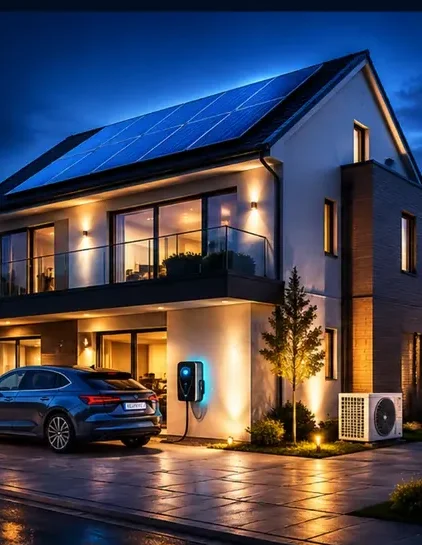
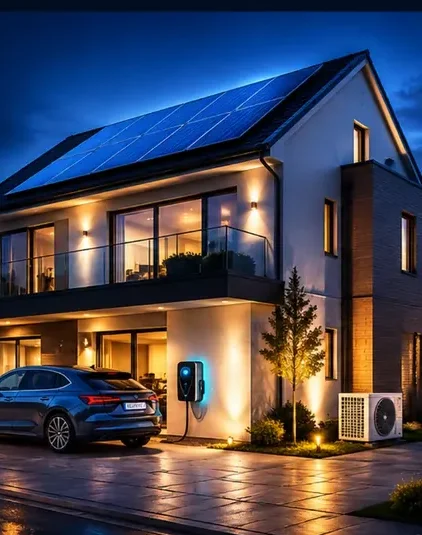
Hero-Bild als randabschließendes Bildelement statt Hintergrund
Text links, Hausfoto rechts (volle Spaltenhöhe, kein Schatten/Card-Look),
Icon-Reihe mit den 6 Leistungen darunter — angelehnt an die vom Kunden
gezeigte Referenz, aber mit echtem HTML-Text/Icons statt Text im Bild.

Claude-Session: https://claude.ai/code/session_017NiCRhzwhPUgWijeqj59Q5

diff --git a/assets/style-relaunch.min.css b/assets/style-relaunch.min.css
@@ -1,1 +1,1 @@
-:root{--yellow:#FFCF21;--yellow-soft:rgba(255,207,33,0.18);--orange:#0E7FC4;--orange-2:#00B0E6;--orange-soft:rgba(0,176,230,0.12)}.site-header{border-bottom-color:var(--yellow)}.btn-primary{background:var(--yellow);color:#1b2436;box-shadow:0 10px 24px -8px rgba(255,207,33,.45)}.btn-primary:hover{background:#f0be0a}.new-badge{display:inline-block;font-family:var(--font-mono);font-size:11px;letter-spacing:.04em;text-transform:uppercase;background:var(--orange-soft);color:var(--orange);border-radius:999px;padding:3px 10px;margin-left:10px;vertical-align:middle}.main-nav{gap:2px}.main-nav a{white-space:nowrap;padding:10px 9px;font-size:13.5px}@media (max-width:1250px){.main-nav a{padding:10px 6px;font-size:12.5px}}.header-cta .btn-sm{white-space:nowrap;flex-shrink:0}.hero{background:radial-gradient(ellipse at 85% -10%,rgba(0,176,230,.22),transparent 45%),linear-gradient(160deg,var(--navy),var(--navy-3))}.hero .eyebrow{color:var(--orange-2)}.hero .eyebrow::before,.section-feature .eyebrow::before{background:var(--orange-2)}.hero h1,.section-feature .audience-tile h3,.section-feature .section-head h2{color:#fff}.hero-lede{color:rgba(255,255,255,.78)}.hero .pill{background:rgba(255,255,255,.08);border-color:rgba(255,255,255,.16);color:#fff}.hero .btn-outline{border-color:rgba(255,255,255,.35);color:#fff}.hero-split-grid{padding-bottom:12px}.hero-visual{display:flex;align-items:flex-end;justify-content:center}.hero-visual img{width:100%;max-width:420px;height:auto;border-radius:var(--radius);display:block;box-shadow:0 30px 60px -30px rgba(0,0,0,.65)}@media (max-width:900px){.hero-visual img{max-width:320px;margin:0 auto}}.hero-services{display:grid;grid-template-columns:repeat(6,1fr);gap:16px;padding:24px 0 56px;border-top:1px solid rgba(255,255,255,.1)}.hero-service{display:flex;flex-direction:column;align-items:center;gap:10px;text-decoration:none;text-align:center}.hero-service span:last-child{font-size:12.5px;font-weight:600;color:rgba(255,255,255,.85);line-height:1.3}.hero-service .icon-badge{width:48px;height:48px;border-radius:12px;background:rgba(255,255,255,.08);color:var(--orange-2);display:flex;align-items:center;justify-content:center;transition:background .15s,transform .15s}.hero-service:hover .icon-badge{background:rgba(255,255,255,.16);transform:translateY(-2px)}@media (max-width:860px){.hero-services{grid-template-columns:repeat(3,1fr);gap:20px 14px}}@media (max-width:480px){.hero-services{grid-template-columns:repeat(2,1fr)}}.page-hero.hero{background:linear-gradient(160deg,rgba(0,176,230,.08),var(--paper))}.calc-basis-note strong,.page-hero.hero .eyebrow{color:var(--orange)}.page-hero.hero .eyebrow::before{background:var(--orange)}.page-hero.hero h1,.upload-box b{color:var(--ink)}.page-hero.hero .hero-lede{color:var(--ink-soft)}.page-hero.hero .pill{background:var(--surface)}.page-hero.hero .btn-outline,.page-hero.hero .pill{border-color:var(--line);color:var(--ink)}.hero-panel{background:linear-gradient(160deg,var(--navy-2),var(--navy-3));border:1px solid rgba(255,255,255,.08);border-radius:var(--radius);min-height:340px;padding:32px;color:#fff;display:flex;flex-direction:column;justify-content:center;gap:14px}.hero-panel .icon-badge{background:rgba(255,255,255,.08);color:var(--orange-2);width:56px;height:56px;border-radius:14px;display:flex;align-items:center;justify-content:center}.hero-panel h2{color:#fff;font-size:20px}.hero-panel p{color:rgba(255,255,255,.72);font-size:14.5px}.hub-grid{display:grid;grid-template-columns:repeat(3,1fr);gap:18px;margin-top:10px}@media (max-width:900px){.hub-grid{grid-template-columns:1fr 1fr}}@media (max-width:560px){.hub-grid{grid-template-columns:1fr}}.hub-card{background:var(--surface);border:1px solid var(--line);border-radius:var(--radius);padding:22px 22px 20px;text-decoration:none;color:var(--ink);display:flex;flex-direction:column;gap:8px;transition:border-color .2s ease,transform .2s ease}.hub-card.is-live:hover{border-color:var(--orange-2);transform:translateY(-2px)}.hub-card h3{font-size:16px}.hub-card p{font-size:13px;color:var(--ink-soft);margin:0}.hub-card .more{font-size:12.5px;font-weight:600;color:var(--orange-2);margin-top:auto}.process-row-n{display:grid;gap:4px;margin-top:32px;position:relative}.process-step{position:relative;padding-top:18px}.process-step .num{font-family:var(--font-mono);font-size:12px;color:var(--orange);letter-spacing:.05em}.process-step h3{font-size:14.5px;margin:8px 0 0;line-height:1.3}.process-row-n::before{content:"";position:absolute;top:6px;left:3%;right:3%;height:1px;background:linear-gradient(90deg,var(--orange-2),transparent)}@media (max-width:900px){.process-row-n::before{display:none}}.qty-hint{display:inline-flex;align-items:center;gap:8px;margin-top:18px;font-size:13px;color:var(--ink-soft);background:var(--surface-2);border-radius:var(--radius-sm);padding:10px 14px}.faq-list{max-width:760px;margin-top:10px}.faq-item{padding:20px 0;border-top:1px solid var(--line)}.faq-item:last-child{border-bottom:1px solid var(--line)}.faq-item h3{font-size:15.5px;margin-bottom:8px}.faq-item p{font-size:14px;color:var(--ink-soft);margin:0}.form-section .form-row-3{display:grid;grid-template-columns:1fr 1fr 1fr;gap:16px}@media (max-width:700px){.form-section .form-row-3{grid-template-columns:1fr}}.form-section .field-hint{font-size:12px;color:var(--ink-faint);margin-top:-12px;margin-bottom:18px}.upload-box{border:1.5px dashed var(--line);border-radius:var(--radius-sm);padding:22px;text-align:center;color:var(--ink-soft);font-size:13.5px;margin-bottom:18px;background:var(--surface-2)}.checkbox-row,.pricing-card li{display:flex;align-items:flex-start;color:var(--ink-soft)}.checkbox-row{gap:10px;font-size:13px;margin-bottom:20px}.checkbox-row input{margin-top:3px}.tag-row{display:flex;flex-wrap:wrap;gap:10px;margin-top:22px}.tag-row span{font-family:var(--font-mono);font-size:12.5px;color:var(--ink-soft);background:var(--surface);border:1px solid var(--line);border-radius:999px;padding:6px 14px}.pricing-grid{display:grid;grid-template-columns:repeat(3,1fr);gap:20px;margin-top:10px}@media (max-width:900px){.pricing-grid{grid-template-columns:1fr}}.pricing-card,.pricing-card ul{display:flex;flex-direction:column}.pricing-card{background:var(--surface);border:1px solid var(--line);border-radius:var(--radius);padding:30px 26px;gap:16px}.pricing-card.is-highlight{border-color:var(--yellow);background:linear-gradient(160deg,var(--yellow-soft),var(--surface))}.pricing-card .tier-name{font-family:var(--font-mono);font-size:13px;letter-spacing:.06em;text-transform:uppercase;color:var(--orange)}.pricing-card h3{font-size:22px}.pricing-card .no-price{font-size:13px;color:var(--ink-faint);font-style:italic}.pricing-card ul{list-style:none;padding:0;margin:0;gap:9px;flex:1}.pricing-card li{gap:9px;font-size:14px}.pricing-card li::before{content:"";width:7px;height:7px;margin-top:6px;flex:none;background:var(--orange);border-radius:1px;transform:rotate(45deg)}.premium-grid{display:grid;grid-template-columns:repeat(3,1fr);gap:20px}@media (max-width:980px){.premium-grid{grid-template-columns:1fr 1fr}}@media (max-width:560px){.premium-grid{grid-template-columns:1fr}}.premium-card{background:var(--surface);border:1px solid var(--line);border-top:3px solid var(--orange-2);border-radius:var(--radius);padding:30px 26px 26px;display:flex;flex-direction:column;gap:14px;text-decoration:none;color:var(--ink);transition:border-color .2s ease,transform .2s ease}.premium-card:hover{border-color:var(--orange-2);transform:translateY(-3px)}.premium-card:nth-child(1){border-top-color:var(--yellow)}.premium-card:nth-child(2){border-top-color:var(--orange-2)}.premium-card:nth-child(3){border-top-color:var(--navy)}.premium-card .icon-badge{width:52px;height:52px;border-radius:13px;background:var(--orange-soft);color:var(--orange);display:flex;align-items:center;justify-content:center}.premium-card-photo{margin:-30px -26px 4px;border-radius:var(--radius) var(--radius)0 0;overflow:hidden}.premium-card-photo img{width:100%;height:160px;object-fit:cover;display:block}.premium-card h3{font-size:19px}.premium-card ul{list-style:none;padding:0;margin:0;display:flex;flex-direction:column;gap:5px}.premium-card li{font-size:13.5px;color:var(--ink-soft)}.premium-card .more{margin-top:auto;font-size:13px;font-weight:600;color:var(--orange);padding-top:6px}.plz-check{margin-top:26px;padding:18px 20px;background:#fff;border:1px solid var(--line);border-radius:var(--radius);max-width:440px;box-shadow:0 20px 44px -24px rgba(0,0,0,.5)}.plz-check p.plz-check-label{font-size:13.5px;font-weight:600;margin:0 0 10px;color:var(--ink)}.plz-check form{display:flex;gap:10px}.plz-check input[type=text]{flex:1;padding:11px 14px;border:1px solid var(--line);border-radius:var(--radius-sm);background:var(--surface-2);color:var(--ink);font-size:14px}.plz-check input[type=text]:focus{outline:0;border-color:var(--orange-2)}.plz-check button{background:var(--yellow);color:#1b2436;border:0;font-weight:600;font-size:13.5px;border-radius:var(--radius-sm);padding:11px 16px;cursor:pointer;white-space:nowrap}.plz-check-result{margin:10px 0 0;font-size:13px;line-height:1.5}.plz-check-result.plz-check-ok{color:#1e9a5a}.plz-check-note,.plz-check-result.plz-check-warn{color:var(--ink-soft)}.plz-check-note{margin:8px 0 0;font-size:11.5px}.wizard-substep-title{font-size:14px;margin:24px 0 12px;color:var(--ink-soft);font-weight:600}.field-hint{font-size:12px;color:var(--ink-faint);margin:-10px 0 18px}.field-hint-inline{font-size:12px;font-weight:400;color:var(--ink-soft)}.wizard-summary{background:var(--surface-2);border-radius:var(--radius-sm);padding:6px 18px;margin-bottom:20px}.wizard-summary-row{display:flex;justify-content:space-between;gap:16px;padding:10px 0;border-bottom:1px solid var(--line);font-size:13.5px}.wizard-summary-row:last-child{border-bottom:none}.wizard-summary-row span{color:var(--ink-soft);flex-shrink:0}.wizard-summary-row strong{color:var(--ink);text-align:right;font-weight:600}.section-feature{background:var(--navy)}.section-feature .eyebrow{color:var(--orange-2)}.section-feature .audience-tile p,.section-feature .section-head p{color:rgba(255,255,255,.72)}.section-feature .audience-tile{background:rgba(255,255,255,.06);border-color:rgba(255,255,255,.14)}.section-feature .audience-tile:hover{border-color:var(--yellow)}.section-feature .audience-tile .more{color:var(--yellow)}.audience-grid{display:grid;grid-template-columns:repeat(3,1fr);gap:18px}@media (max-width:860px){.audience-grid{grid-template-columns:1fr}}.audience-tile{display:block;text-decoration:none;background:var(--surface);border:1px solid var(--line);border-radius:var(--radius);padding:24px 22px;transition:border-color .15s,transform .15s}.audience-tile:hover{border-color:var(--orange-2);transform:translateY(-3px)}.audience-tile h3,.quick-tile h3{font-size:17px;margin:0 0 8px;color:var(--ink)}.audience-tile p,.why-tile p{font-size:13.5px;color:var(--ink-soft);margin:0 0 12px;line-height:1.55}.audience-tile .more{font-size:13px;font-weight:600;color:var(--orange)}.quick-grid{display:grid;grid-template-columns:repeat(5,1fr);gap:14px}@media (max-width:980px){.quick-grid{grid-template-columns:repeat(2,1fr)}}@media (max-width:560px){.quick-grid{grid-template-columns:1fr}}.quick-tile{display:flex;flex-direction:column;gap:10px;text-decoration:none;background:var(--surface);border:1px solid var(--line);border-radius:var(--radius);padding:18px 16px;transition:border-color .15s,transform .15s}.quick-tile:hover{border-color:var(--orange-2);transform:translateY(-3px)}.quick-tile .tag{align-self:flex-start;font-size:11px;font-weight:600;color:#15803d;background:#dcfce7;border-radius:999px;padding:4px 10px}.quick-tile h3{font-size:14.5px;margin:0;line-height:1.35}.quick-tile .more{margin-top:auto;font-size:12.5px;font-weight:600;color:var(--orange)}.why-grid{display:grid;grid-template-columns:repeat(4,1fr);gap:18px}@media (max-width:980px){.why-grid{grid-template-columns:1fr 1fr}}@media (max-width:560px){.why-grid{grid-template-columns:1fr}}.elektro-row,.why-tile{background:var(--surface);border:1px solid var(--line);border-radius:var(--radius);padding:22px 20px}.why-tile .icon-badge{width:48px;height:48px;border-radius:12px;background:var(--orange-soft);color:var(--orange);display:flex;align-items:center;justify-content:center;margin-bottom:14px}.why-tile h3{font-size:15.5px;margin:0 0 6px}.why-tile p{font-size:13px;margin:0;line-height:1.5}.elektro-row{display:flex;align-items:center;justify-content:space-between;flex-wrap:wrap;gap:16px;margin-top:20px;padding:20px 26px}.elektro-row .label{display:flex;align-items:center;gap:12px;font-family:var(--font-display);font-weight:600;font-size:15.5px}.elektro-row .tags{display:flex;flex-wrap:wrap;gap:8px}.elektro-row .tags span{font-family:var(--font-mono);font-size:11.5px;color:var(--ink-soft);background:var(--surface-2);border-radius:999px;padding:4px 10px}.process-row{display:grid;grid-template-columns:repeat(5,1fr);gap:4px;margin-top:32px;position:relative}@media (max-width:900px){.process-row{grid-template-columns:1fr 1fr;gap:20px}}@media (max-width:560px){.process-row{grid-template-columns:1fr}}.process-row .process-step{position:relative;padding-top:18px}.process-row .process-step .num{font-family:var(--font-mono);font-size:12px;color:var(--orange);letter-spacing:.05em}.process-row .process-step h3{font-size:15px;margin:8px 0 0}.process-row::before{content:"";position:absolute;top:6px;left:5%;right:5%;height:1px;background:linear-gradient(90deg,var(--orange-2),transparent)}@media (max-width:900px){.process-row::before{display:none}}.mobile-contact-bar{display:none}@media (max-width:720px){.mobile-contact-bar{display:flex;position:fixed;left:0;right:0;bottom:0;z-index:60;background:rgba(8,11,15,.95);backdrop-filter:blur(8px);border-top:1px solid rgba(255,255,255,.1);padding:8px calc(10px + env(safe-area-inset-left,0)) calc(8px + env(safe-area-inset-bottom,0)) calc(10px + env(safe-area-inset-right,0));gap:8px}.mobile-contact-bar a{flex:1;display:flex;flex-direction:column;align-items:center;gap:3px;font-family:var(--font-mono);font-size:10.5px;color:rgba(174,182,192,.9);text-decoration:none;padding:6px 0;border-radius:8px}.mobile-contact-bar a:active{background:rgba(255,255,255,.08)}body{padding-bottom:64px}}@media (max-width:900px){.hero-badge{margin-top:8px}.hero-badge img{max-width:280px}}
+:root{--yellow:#FFCF21;--yellow-soft:rgba(255,207,33,0.18);--orange:#0E7FC4;--orange-2:#00B0E6;--orange-soft:rgba(0,176,230,0.12)}.site-header{border-bottom-color:var(--yellow)}.btn-primary{background:var(--yellow);color:#1b2436;box-shadow:0 10px 24px -8px rgba(255,207,33,.45)}.btn-primary:hover{background:#f0be0a}.new-badge{display:inline-block;font-family:var(--font-mono);font-size:11px;letter-spacing:.04em;text-transform:uppercase;background:var(--orange-soft);color:var(--orange);border-radius:999px;padding:3px 10px;margin-left:10px;vertical-align:middle}.main-nav{gap:2px}.main-nav a{white-space:nowrap;padding:10px 9px;font-size:13.5px}@media (max-width:1250px){.main-nav a{padding:10px 6px;font-size:12.5px}}.header-cta .btn-sm{white-space:nowrap;flex-shrink:0}.hero{background:radial-gradient(ellipse at 85% -10%,rgba(0,176,230,.22),transparent 45%),linear-gradient(160deg,var(--navy),var(--navy-3))}.hero .eyebrow{color:var(--orange-2)}.hero .eyebrow::before,.section-feature .eyebrow::before{background:var(--orange-2)}.hero h1,.section-feature .audience-tile h3,.section-feature .section-head h2{color:#fff}.hero-lede{color:rgba(255,255,255,.78)}.hero .pill{background:rgba(255,255,255,.08);border-color:rgba(255,255,255,.16);color:#fff}.hero .btn-outline{border-color:rgba(255,255,255,.35);color:#fff}.hero .hero-split-grid{align-items:stretch;padding-bottom:0}.hero-visual{align-self:stretch;min-height:420px}.hero-visual img{width:100%;height:100%;object-fit:cover;display:block}@media (max-width:900px){.hero-visual{min-height:280px}}.hero-services{display:grid;grid-template-columns:repeat(6,1fr);gap:16px;padding:24px 0 56px;border-top:1px solid rgba(255,255,255,.1)}.hero-service{display:flex;flex-direction:column;align-items:center;gap:10px;text-decoration:none;text-align:center}.hero-service span:last-child{font-size:12.5px;font-weight:600;color:rgba(255,255,255,.85);line-height:1.3}.hero-service .icon-badge{width:48px;height:48px;border-radius:12px;background:rgba(255,255,255,.08);color:var(--orange-2);display:flex;align-items:center;justify-content:center;transition:background .15s,transform .15s}.hero-service:hover .icon-badge{background:rgba(255,255,255,.16);transform:translateY(-2px)}@media (max-width:860px){.hero-services{grid-template-columns:repeat(3,1fr);gap:20px 14px}}@media (max-width:480px){.hero-services{grid-template-columns:repeat(2,1fr)}}.page-hero.hero{background:linear-gradient(160deg,rgba(0,176,230,.08),var(--paper))}.calc-basis-note strong,.page-hero.hero .eyebrow{color:var(--orange)}.page-hero.hero .eyebrow::before{background:var(--orange)}.page-hero.hero h1,.upload-box b{color:var(--ink)}.page-hero.hero .hero-lede{color:var(--ink-soft)}.page-hero.hero .pill{background:var(--surface)}.page-hero.hero .btn-outline,.page-hero.hero .pill{border-color:var(--line);color:var(--ink)}.hero-panel{background:linear-gradient(160deg,var(--navy-2),var(--navy-3));border:1px solid rgba(255,255,255,.08);border-radius:var(--radius);min-height:340px;padding:32px;color:#fff;display:flex;flex-direction:column;justify-content:center;gap:14px}.hero-panel .icon-badge{background:rgba(255,255,255,.08);color:var(--orange-2);width:56px;height:56px;border-radius:14px;display:flex;align-items:center;justify-content:center}.hero-panel h2{color:#fff;font-size:20px}.hero-panel p{color:rgba(255,255,255,.72);font-size:14.5px}.hub-grid{display:grid;grid-template-columns:repeat(3,1fr);gap:18px;margin-top:10px}@media (max-width:900px){.hub-grid{grid-template-columns:1fr 1fr}}@media (max-width:560px){.hub-grid{grid-template-columns:1fr}}.hub-card{background:var(--surface);border:1px solid var(--line);border-radius:var(--radius);padding:22px 22px 20px;text-decoration:none;color:var(--ink);display:flex;flex-direction:column;gap:8px;transition:border-color .2s ease,transform .2s ease}.hub-card.is-live:hover{border-color:var(--orange-2);transform:translateY(-2px)}.hub-card h3{font-size:16px}.hub-card p{font-size:13px;color:var(--ink-soft);margin:0}.hub-card .more{font-size:12.5px;font-weight:600;color:var(--orange-2);margin-top:auto}.process-row-n{display:grid;gap:4px;margin-top:32px;position:relative}.process-step{position:relative;padding-top:18px}.process-step .num{font-family:var(--font-mono);font-size:12px;color:var(--orange);letter-spacing:.05em}.process-step h3{font-size:14.5px;margin:8px 0 0;line-height:1.3}.process-row-n::before{content:"";position:absolute;top:6px;left:3%;right:3%;height:1px;background:linear-gradient(90deg,var(--orange-2),transparent)}@media (max-width:900px){.process-row-n::before{display:none}}.qty-hint{display:inline-flex;align-items:center;gap:8px;margin-top:18px;font-size:13px;color:var(--ink-soft);background:var(--surface-2);border-radius:var(--radius-sm);padding:10px 14px}.faq-list{max-width:760px;margin-top:10px}.faq-item{padding:20px 0;border-top:1px solid var(--line)}.faq-item:last-child{border-bottom:1px solid var(--line)}.faq-item h3{font-size:15.5px;margin-bottom:8px}.faq-item p{font-size:14px;color:var(--ink-soft);margin:0}.form-section .form-row-3{display:grid;grid-template-columns:1fr 1fr 1fr;gap:16px}@media (max-width:700px){.form-section .form-row-3{grid-template-columns:1fr}}.form-section .field-hint{font-size:12px;color:var(--ink-faint);margin-top:-12px;margin-bottom:18px}.upload-box{border:1.5px dashed var(--line);border-radius:var(--radius-sm);padding:22px;text-align:center;color:var(--ink-soft);font-size:13.5px;margin-bottom:18px;background:var(--surface-2)}.checkbox-row,.pricing-card li{display:flex;align-items:flex-start;color:var(--ink-soft)}.checkbox-row{gap:10px;font-size:13px;margin-bottom:20px}.checkbox-row input{margin-top:3px}.tag-row{display:flex;flex-wrap:wrap;gap:10px;margin-top:22px}.tag-row span{font-family:var(--font-mono);font-size:12.5px;color:var(--ink-soft);background:var(--surface);border:1px solid var(--line);border-radius:999px;padding:6px 14px}.pricing-grid{display:grid;grid-template-columns:repeat(3,1fr);gap:20px;margin-top:10px}@media (max-width:900px){.pricing-grid{grid-template-columns:1fr}}.pricing-card,.pricing-card ul{display:flex;flex-direction:column}.pricing-card{background:var(--surface);border:1px solid var(--line);border-radius:var(--radius);padding:30px 26px;gap:16px}.pricing-card.is-highlight{border-color:var(--yellow);background:linear-gradient(160deg,var(--yellow-soft),var(--surface))}.pricing-card .tier-name{font-family:var(--font-mono);font-size:13px;letter-spacing:.06em;text-transform:uppercase;color:var(--orange)}.pricing-card h3{font-size:22px}.pricing-card .no-price{font-size:13px;color:var(--ink-faint);font-style:italic}.pricing-card ul{list-style:none;padding:0;margin:0;gap:9px;flex:1}.pricing-card li{gap:9px;font-size:14px}.pricing-card li::before{content:"";width:7px;height:7px;margin-top:6px;flex:none;background:var(--orange);border-radius:1px;transform:rotate(45deg)}.premium-grid{display:grid;grid-template-columns:repeat(3,1fr);gap:20px}@media (max-width:980px){.premium-grid{grid-template-columns:1fr 1fr}}@media (max-width:560px){.premium-grid{grid-template-columns:1fr}}.premium-card{background:var(--surface);border:1px solid var(--line);border-top:3px solid var(--orange-2);border-radius:var(--radius);padding:30px 26px 26px;display:flex;flex-direction:column;gap:14px;text-decoration:none;color:var(--ink);transition:border-color .2s ease,transform .2s ease}.premium-card:hover{border-color:var(--orange-2);transform:translateY(-3px)}.premium-card:nth-child(1){border-top-color:var(--yellow)}.premium-card:nth-child(2){border-top-color:var(--orange-2)}.premium-card:nth-child(3){border-top-color:var(--navy)}.premium-card .icon-badge{width:52px;height:52px;border-radius:13px;background:var(--orange-soft);color:var(--orange);display:flex;align-items:center;justify-content:center}.premium-card-photo{margin:-30px -26px 4px;border-radius:var(--radius) var(--radius)0 0;overflow:hidden}.premium-card-photo img{width:100%;height:160px;object-fit:cover;display:block}.premium-card h3{font-size:19px}.premium-card ul{list-style:none;padding:0;margin:0;display:flex;flex-direction:column;gap:5px}.premium-card li{font-size:13.5px;color:var(--ink-soft)}.premium-card .more{margin-top:auto;font-size:13px;font-weight:600;color:var(--orange);padding-top:6px}.plz-check{margin-top:26px;padding:18px 20px;background:#fff;border:1px solid var(--line);border-radius:var(--radius);max-width:440px;box-shadow:0 20px 44px -24px rgba(0,0,0,.5)}.plz-check p.plz-check-label{font-size:13.5px;font-weight:600;margin:0 0 10px;color:var(--ink)}.plz-check form{display:flex;gap:10px}.plz-check input[type=text]{flex:1;padding:11px 14px;border:1px solid var(--line);border-radius:var(--radius-sm);background:var(--surface-2);color:var(--ink);font-size:14px}.plz-check input[type=text]:focus{outline:0;border-color:var(--orange-2)}.plz-check button{background:var(--yellow);color:#1b2436;border:0;font-weight:600;font-size:13.5px;border-radius:var(--radius-sm);padding:11px 16px;cursor:pointer;white-space:nowrap}.plz-check-result{margin:10px 0 0;font-size:13px;line-height:1.5}.plz-check-result.plz-check-ok{color:#1e9a5a}.plz-check-note,.plz-check-result.plz-check-warn{color:var(--ink-soft)}.plz-check-note{margin:8px 0 0;font-size:11.5px}.wizard-substep-title{font-size:14px;margin:24px 0 12px;color:var(--ink-soft);font-weight:600}.field-hint{font-size:12px;color:var(--ink-faint);margin:-10px 0 18px}.field-hint-inline{font-size:12px;font-weight:400;color:var(--ink-soft)}.wizard-summary{background:var(--surface-2);border-radius:var(--radius-sm);padding:6px 18px;margin-bottom:20px}.wizard-summary-row{display:flex;justify-content:space-between;gap:16px;padding:10px 0;border-bottom:1px solid var(--line);font-size:13.5px}.wizard-summary-row:last-child{border-bottom:none}.wizard-summary-row span{color:var(--ink-soft);flex-shrink:0}.wizard-summary-row strong{color:var(--ink);text-align:right;font-weight:600}.section-feature{background:var(--navy)}.section-feature .eyebrow{color:var(--orange-2)}.section-feature .audience-tile p,.section-feature .section-head p{color:rgba(255,255,255,.72)}.section-feature .audience-tile{background:rgba(255,255,255,.06);border-color:rgba(255,255,255,.14)}.section-feature .audience-tile:hover{border-color:var(--yellow)}.section-feature .audience-tile .more{color:var(--yellow)}.audience-grid{display:grid;grid-template-columns:repeat(3,1fr);gap:18px}@media (max-width:860px){.audience-grid{grid-template-columns:1fr}}.audience-tile{display:block;text-decoration:none;background:var(--surface);border:1px solid var(--line);border-radius:var(--radius);padding:24px 22px;transition:border-color .15s,transform .15s}.audience-tile:hover{border-color:var(--orange-2);transform:translateY(-3px)}.audience-tile h3,.quick-tile h3{font-size:17px;margin:0 0 8px;color:var(--ink)}.audience-tile p,.why-tile p{font-size:13.5px;color:var(--ink-soft);margin:0 0 12px;line-height:1.55}.audience-tile .more{font-size:13px;font-weight:600;color:var(--orange)}.quick-grid{display:grid;grid-template-columns:repeat(5,1fr);gap:14px}@media (max-width:980px){.quick-grid{grid-template-columns:repeat(2,1fr)}}@media (max-width:560px){.quick-grid{grid-template-columns:1fr}}.quick-tile{display:flex;flex-direction:column;gap:10px;text-decoration:none;background:var(--surface);border:1px solid var(--line);border-radius:var(--radius);padding:18px 16px;transition:border-color .15s,transform .15s}.quick-tile:hover{border-color:var(--orange-2);transform:translateY(-3px)}.quick-tile .tag{align-self:flex-start;font-size:11px;font-weight:600;color:#15803d;background:#dcfce7;border-radius:999px;padding:4px 10px}.quick-tile h3{font-size:14.5px;margin:0;line-height:1.35}.quick-tile .more{margin-top:auto;font-size:12.5px;font-weight:600;color:var(--orange)}.why-grid{display:grid;grid-template-columns:repeat(4,1fr);gap:18px}@media (max-width:980px){.why-grid{grid-template-columns:1fr 1fr}}@media (max-width:560px){.why-grid{grid-template-columns:1fr}}.elektro-row,.why-tile{background:var(--surface);border:1px solid var(--line);border-radius:var(--radius);padding:22px 20px}.why-tile .icon-badge{width:48px;height:48px;border-radius:12px;background:var(--orange-soft);color:var(--orange);display:flex;align-items:center;justify-content:center;margin-bottom:14px}.why-tile h3{font-size:15.5px;margin:0 0 6px}.why-tile p{font-size:13px;margin:0;line-height:1.5}.elektro-row{display:flex;align-items:center;justify-content:space-between;flex-wrap:wrap;gap:16px;margin-top:20px;padding:20px 26px}.elektro-row .label{display:flex;align-items:center;gap:12px;font-family:var(--font-display);font-weight:600;font-size:15.5px}.elektro-row .tags{display:flex;flex-wrap:wrap;gap:8px}.elektro-row .tags span{font-family:var(--font-mono);font-size:11.5px;color:var(--ink-soft);background:var(--surface-2);border-radius:999px;padding:4px 10px}.process-row{display:grid;grid-template-columns:repeat(5,1fr);gap:4px;margin-top:32px;position:relative}@media (max-width:900px){.process-row{grid-template-columns:1fr 1fr;gap:20px}}@media (max-width:560px){.process-row{grid-template-columns:1fr}}.process-row .process-step{position:relative;padding-top:18px}.process-row .process-step .num{font-family:var(--font-mono);font-size:12px;color:var(--orange);letter-spacing:.05em}.process-row .process-step h3{font-size:15px;margin:8px 0 0}.process-row::before{content:"";position:absolute;top:6px;left:5%;right:5%;height:1px;background:linear-gradient(90deg,var(--orange-2),transparent)}@media (max-width:900px){.process-row::before{display:none}}.mobile-contact-bar{display:none}@media (max-width:720px){.mobile-contact-bar{display:flex;position:fixed;left:0;right:0;bottom:0;z-index:60;background:rgba(8,11,15,.95);backdrop-filter:blur(8px);border-top:1px solid rgba(255,255,255,.1);padding:8px calc(10px + env(safe-area-inset-left,0)) calc(8px + env(safe-area-inset-bottom,0)) calc(10px + env(safe-area-inset-right,0));gap:8px}.mobile-contact-bar a{flex:1;display:flex;flex-direction:column;align-items:center;gap:3px;font-family:var(--font-mono);font-size:10.5px;color:rgba(174,182,192,.9);text-decoration:none;padding:6px 0;border-radius:8px}.mobile-contact-bar a:active{background:rgba(255,255,255,.08)}body{padding-bottom:64px}}@media (max-width:900px){.hero-badge{margin-top:8px}.hero-badge img{max-width:280px}}

diff --git a/assets/style-relaunch.css b/assets/style-relaunch.css
@@ -46,10 +46,10 @@
 .hero .pill{ background: rgba(255,255,255,0.08); border-color: rgba(255,255,255,0.16); color:#fff; }
 .hero .btn-outline{ border-color: rgba(255,255,255,0.35); color:#fff; }
 
-.hero-split-grid{ padding-bottom: 12px; }
-.hero-visual{ display:flex; align-items:flex-end; justify-content:center; }
-.hero-visual img{ width:100%; max-width:420px; height:auto; border-radius: var(--radius); display:block; box-shadow: 0 30px 60px -30px rgba(0,0,0,0.65); }
-@media (max-width:900px){ .hero-visual img{ max-width:320px; margin:0 auto; } }
+.hero .hero-split-grid{ align-items:stretch; padding-bottom: 0; }
+.hero-visual{ align-self:stretch; min-height:420px; }
+.hero-visual img{ width:100%; height:100%; object-fit:cover; display:block; }
+@media (max-width:900px){ .hero-visual{ min-height:280px; } }
 
 .hero-services{ display:grid; grid-template-columns:repeat(6,1fr); gap:16px; padding:24px 0 56px; border-top:1px solid rgba(255,255,255,0.1); }
 .hero-service{ display:flex; flex-direction:column; align-items:center; gap:10px; text-decoration:none; text-align:center; }

diff --git a/index.html b/index.html
@@ -436,7 +436,7 @@
         </div>
       </div>
       <div class="hero-visual">
-        <img src="assets/hero/hero-elektro-haus.webp" alt="Einfamilienhaus mit Photovoltaik-Anlage, Wallbox und Wärmepumpe, installiert durch neuverdrahtet" width="422" height="545" loading="eager">
+        <img src="assets/hero/hero-elektro-haus.webp" alt="Einfamilienhaus mit Photovoltaik-Anlage, Wallbox und Wärmepumpe, installiert durch neuverdrahtet" width="422" height="535" loading="eager">
       </div>
     </div>
     <div class="wrap">
